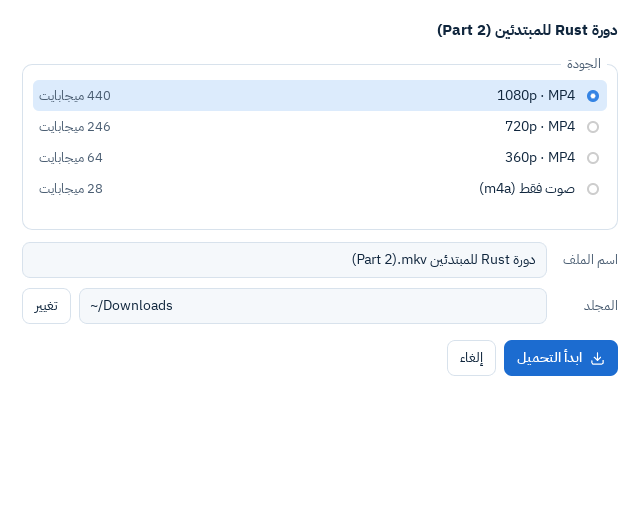
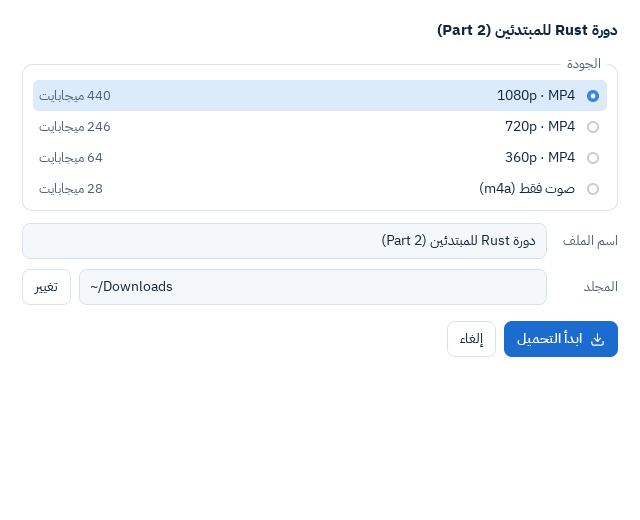
docs(release): screenshots from CI on main at 003773d

Changed region(s): [[0.0312, 0.4, 0.8438, 0.6154], [0.6875, 0.5538, 0.9688, 0.7385], [0.875, 0.4308, 0.9688, 0.5231]]

diff --git a/docs/releases/v1.0.0.md b/docs/releases/v1.0.0.md
@@ -16,7 +16,7 @@
 | **نافذة التقدم بالأجزاء** | **نافذة «جودة الفيديو»** |
 | ![نافذة التقدم: الأجزاء والاتصالات](https://raw.githubusercontent.com/motalim-ai/zajil-download-manager/v1.0.0/docs/screenshots/progress-ar.png) | ![نافذة جودة الفيديو: الجودات والحجم واسم الملف](https://raw.githubusercontent.com/motalim-ai/zajil-download-manager/v1.0.0/docs/screenshots/video-quality-ar.png) |
 | **«معلومات ملف التحميل»** | **زر «نزّل الفيديو» فوق الفيديو (الإضافة)** |
-| ![نافذة معلومات ملف التحميل: الاسم والحجم والمجلد](https://raw.githubusercontent.com/motalim-ai/zajil-download-manager/v1.0.0/docs/screenshots/file-info-ar.png) | ![زر نزّل الفيديو فوق فيديو تجريبي في المتصفح](https://raw.githubusercontent.com/motalim-ai/zajil-download-manager/v1.0.0/docs/screenshots/video-button-ar.png) |
+| ![نافذة معلومات ملف التحميل الصغيرة: الرابط والفئة والاسم والمجلد](https://raw.githubusercontent.com/motalim-ai/zajil-download-manager/v1.0.0/docs/screenshots/file-info-ar.png) | ![زر نزّل الفيديو فوق فيديو تجريبي في المتصفح](https://raw.githubusercontent.com/motalim-ai/zajil-download-manager/v1.0.0/docs/screenshots/video-button-ar.png) |
 | **«تحميل الموقع»** | **«تحميل بالجملة»** |
 | ![نافذة تحميل الموقع: الحدود، والملفات التي وُجدت قبل إضافتها، والمجلد](https://raw.githubusercontent.com/motalim-ai/zajil-download-manager/v1.0.0/docs/screenshots/grab-ar.png) | ![نافذة التحميل بالجملة: النمط والروابط قبل إضافتها](https://raw.githubusercontent.com/motalim-ai/zajil-download-manager/v1.0.0/docs/screenshots/batch-ar.png) |
 
@@ -185,7 +185,7 @@ Real screenshots from CI (test data only):
 | **The progress window with its parts** | **The «Video quality» window** |
 | ![The progress window: its parts and connections](https://raw.githubusercontent.com/motalim-ai/zajil-download-manager/v1.0.0/docs/screenshots/progress-ar.png) | ![The Video quality window: the formats, their size and the file name](https://raw.githubusercontent.com/motalim-ai/zajil-download-manager/v1.0.0/docs/screenshots/video-quality-ar.png) |
 | **«Download file info»** | **The «Download video» button over a video (the extension)** |
-| ![The Download file info window: the name, the size and the folder](https://raw.githubusercontent.com/motalim-ai/zajil-download-manager/v1.0.0/docs/screenshots/file-info-ar.png) | ![The Download video button over a test video in the browser](https://raw.githubusercontent.com/motalim-ai/zajil-download-manager/v1.0.0/docs/screenshots/video-button-ar.png) |
+| ![The small Download file info window: the link, the category, the name and the folder](https://raw.githubusercontent.com/motalim-ai/zajil-download-manager/v1.0.0/docs/screenshots/file-info-ar.png) | ![The Download video button over a test video in the browser](https://raw.githubusercontent.com/motalim-ai/zajil-download-manager/v1.0.0/docs/screenshots/video-button-ar.png) |
 | **«Site grabber»** | **«Batch download»** |
 | ![The Site grabber window: the limits, the files found before they are added, and the folder](https://raw.githubusercontent.com/motalim-ai/zajil-download-manager/v1.0.0/docs/screenshots/grab-ar.png) | ![The Batch download window: the pattern and the links before they are added](https://raw.githubusercontent.com/motalim-ai/zajil-download-manager/v1.0.0/docs/screenshots/batch-ar.png) |
 
